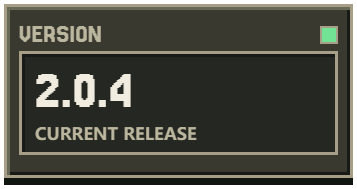
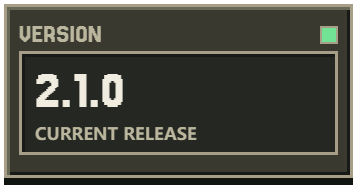
chore(release): 2.1.0
版本位（tauri.conf.json / Cargo.toml / Cargo.lock）统一到 2.1.0；新增 release-2.1.0.md；README 中英版版本卡链接与下载表同步，版本卡由 tools/render-readme.mjs 重渲染（含 hero 与 metadata）。

本次收口：插件下载按来源回退上一可用版本（#68）、插件卡与弹窗滚动锁（#69）、自启失败阶段化与手动启用锁外重试（#70）、Gitee 按需接入与国内镜像实测矩阵（附加 A）；插件仓同期提交预装增量补登记（#71）。

包校验（dist 不进库）：
  Setup  311.68 MB  d12cf11132833ac722605b5f50464b0ad97277d418b41c26d639f952d0e729d8
  Update  30.19 MB  5513ee3a5605a67e256fc23ecb68625ae92a0c0c18fe1f1a18e97b9fadd84406
包内 resources/manifest.json 已核对为 product=FISH Dock / version=2.1.0。

同批已同步工作区 AGENTS.md（§八 Gitee/镜像口径、§七 提交约定）。

Changed region(s): [[0.1849, 0.3704, 0.3697, 0.582]]

diff --git a/app/docs/release-2.1.0.md b/app/docs/release-2.1.0.md
@@ -1,0 +1,74 @@
+# FISH Dock 2.1.0
+
+> 定稿：2026-11-04。宿主 **2.1.0**，兼容插件 2.x（官方目录当前 2.2.0：Clash / Magpie / 飞书）。
+> 本版收口主仓六个 OPEN issue 里的四条 + 一条历史欠账，并补齐 2.0.4 的两处遗留。
+
+## 一、插件下载：三源全灭时按来源回退上一可用版本（#68）
+
+目录里的版本跑在制品前面时（目录写了新版、npm 与 Release 还没有），用户过去只会看到「检查网络或代理后重试」——而网络是好的。
+
+- **版本候选**：优先读官方目录的版本历史条目；目录没有该字段时用编译期内置表 `KNOWN_GOOD`（12 条，摘要取自官方发行，经 GitHub Releases API 的 `assets[].digest` 逐条核验 **12/12 一致**）。比目录更新的内置条目不作回退目标。
+- **下载前探活**：对每个来源每个候选做 `HEAD`，只对 **404/410** 定论「制品不存在」；**403 不定论**，照旧发起完整下载（限流或 CDN 拒 HEAD 证明不了缺制品，一次限流不该把可用来源判死）。
+- **按来源降级**：`fetch_from` 改为「逐来源 × 逐候选（新→旧）」，某条来源最近可用版本成功即返回，并带出实际装上的 `effective_version`；三源都失败时把各候选的 attempts 一并交给面板。
+- **界面保留新版**：目录数据一个字节不改，卡片照常显示最新版；装完后提示「已安装 vX；目录最新 vY 暂不可用」，走**绿色成功态**而不是红色失败。
+- **摘要零放宽**：期望摘要只取候选自带的官方目录摘要，装上的 digest 绝不等于自算摘要；错摘要按该来源失败处理并继续下一候选。
+- **跳转判据修正**：`hop()` 从「只认两个 GitHub 资产域」放宽到「官方发行资产域 **或** 与当前请求同站点域」。这修掉了一个真实缺陷——npmmirror 的 tarball 的 `HEAD` 与 `GET` **都** 302 到 `cdn.npmmirror.com`，此前一律被拒，于是「三源」实际只有两源可用，而国内用户最需要的恰好是死掉的那条。仍要求 HTTPS、拒绝跨域与端口、拒绝后缀伪装（`npmmirror.com.evil.example` 照样拒）。
+- **可诊断性**：结构化下载失败按内容语义记进 `recent.log`（恰好一条，不重复），探活判死补 stderr；失败面板逐源显示 **来源 · 结论 · HTTP 状态码 · 失败阶段 · 可复制 URL**，`title` 保留原始技术串。
+
+## 二、插件卡与浮层（#69）
+
+- 「更多」展开区从约 210px 压到 **105px**（目标 ≤120），日志↔卸载 **9px**（目标 ≤40）；菜单行 32px 整行可点、组内仅一条分隔线、卸载置组末且常态红。
+- 目录名与功能页入口**合并成一行**（12px 次级色 + 省略 + 点击复制）。
+- 已安装卡标题 **17px/600**，状态点 6px、状态↔版本 8px，行内最大留白 10px。
+- **Dock 弹窗锁滚动**：确认弹窗打开时底层列表不再被滚走；进度浮层与失败块在锁定期仍可滚动（`UNLOCKED_SCROLLERS` 具名清单），关闭/取消/Escape/点背景四路都解锁并还原 `scrollTop`。
+- 新增「插件卡与浮层视觉规范」注释块（字号/行高/间距/危险色/滚动锁口径），防 #63 式反复。
+
+## 三、自启失败可定位（#70）
+
+预算与重试调度在 2.0.4 已存在（冷态一次尝试共用 60s、整轮 180s、每插件最多 4 次尝试），本版只补**可观测性**与**对称性**：
+
+- `Failure` 增 `phase`（verify/spawn/hello/activate/service）、`attempt`、`elapsedMs`（增字段，旧 `plugin-failures.log` 仍可解析）。
+- `log_finish` 的 ready/stopped 也落盘（复用单一写入路径，failed 不重复）。
+- **手动启用**首次失败后补一次 3s 退避重试：退避在**锁外**做（不会冻住插件页 3 秒），醒来重取锁并复检 `closed/stopping`/代次。
+
+> ⚠ 这条的**真机重启自启实测仍待执行**（装本版后重启，看 `plugin-failures.log` 与托盘）。代码侧已闭环，真机结论未取。
+
+## 四、国内镜像与 Gitee（历史欠账）
+
+- `url.gitee_repo` 仍是「配了才启用」，默认空；`updates::endpoints()` 在配置后加入 Gitee 候选。
+- `sources::picks` 增 Gitee 附件候选（仅配置时生效），`candidates()` 排序语义与共用 deadline 未改。
+- **行为变化（请留意）**：`allowed()` 从纯前缀比较收窄为「前缀 + 边界字符」。原先配 `…/FISH-Dock` 会连带放行 `…/FISH-DOCK-Plugins`（同名前缀），现在只放行边界匹配的地址。**只收窄，不放宽。**
+- 新增 `app/docs/domestic-mirror-matrix-2026-11-04.md`：六类资源逐项实测。结论摘要——raw 文件是唯一开箱即有免费国内镜像的一类（`stable.json` 在 raw.githubusercontent 与 jsDelivr 三域名字节与 sha256 完全相同）；npm 官方与 npmmirror 的 tarball 四项校验全同；**pet 图库 DNS 污染级不可达且无任何已确认镜像**；Windhawk / LHM 无免费国内镜像。缺口如实标注，不编地址、不要求用户自建服务。
+- **Gitee 现状（不吹）**：主仓 Gitee 有 13 个 tags 但**没有任何 Release 附件**（`releases` API 返回 `[]`，具体附件 URL 全 404）；插件仓 Gitee 的匿名可见性两次探测结果相反（待人工确认）。因此本版**仍以 GitHub Release 为唯一发行源**，Gitee 通道保持默认关闭。
+
+## 五、安装包
+
+| 安装包 | 使用场景 |
+| --- | --- |
+| `FISH-Dock-Setup-2.1.0.exe` | 首次安装、基础资源缺失或修复安装，包含完整离线运行时。 |
+| `FISH-Dock-Update-2.1.0.exe` | 已有版本且基础资源完整时使用，只含相对 **2.0.4** 的变更；缺失或损坏时提示改用完整包。 |
+
+> **精简更新包只对 2.0.4 有效**：它是差分包，跨版本使用会缺文件。更早的版本请用完整安装包。
+
+## 六、已知限制与残留
+
+1. **便携版更新入口仍不可用**：`updates::exe_name()` 还在拼历史文件名 `wakuwaku-v<ver>-windows-x64.exe`，而真实发行名是 `FISH-Dock-{Setup,Update}-<ver>.exe` → 便携版的 `can_install()` 恒为 false（安装版走 `installer_names`，不受影响）。列为独立条目。
+2. **npm 两源仍无新版**：`catalog/stable.json` 已写 2.2.0，但 npm 官方源与 npmmirror 的 latest 仍是 2.1.5/2.1.5/2.1.6、2.2.0 tarball 404，只有 GitHub Release 有。插件更新目前依赖 GitHub 一条腿；回退逻辑正好覆盖这种情况。
+3. **真机未验**：卡面尺寸（`getBoundingClientRect`）、触控惯性下的滚动锁、深浅主题的 `.note.ok` 对比度、以及 #70 的重启自启实测。
+4. **`.bad` 无独立颜色规则**：整套 CSS 里只有组合选择器带红，所以历史上那些“红色失败”其实不红。属既有观感问题，独立条目处理。
+5. **探活无整轮总 deadline**：最坏 3 源 × 6 候选 = 18 次 `HEAD`；单次 fetch 内共用 deadline，整轮候选没有。
+6. **`KNOWN_GOOD` 靠人工纪律维护**：表过期后回退能力会静默退化到“只有目录当前版”。
+7. `hop()` 的同站点域是**逐跳**评估，比旧版略宽（仍限 GitHub 自有域 + 目录 sha256/size/manifest 三重校验）。
+
+## 七、验证
+
+- 整 crate `cargo check --offline --bin FISH-Dock` → exit 0。
+- 全量 `cargo test` **并行连跑 3 次**：每次 `876 passed; 2 failed; 23 ignored`，两条失败恒为 `lhm_setup::tests` 的沙箱 DACL 与 Task Scheduler 环境问题。
+- 前端：`node --check` 三文件 exit 0；前端夹具 466 passed（基线 462）。
+- `node app/scripts/check-hardcoded.mjs` → **exit 0**（合计 128/128/0、`HTTP_URL 70/70/0`）；对比度无新增违规。
+- 插件仓 `node --test preinstall.test.mjs` → 26/26。
+- 改动面：主仓 15 文件 +2083/−175；插件仓 3 文件；`catalog/stable.json` 未改动。
+
+## 八、插件侧配套
+
+插件仓同期提交了 **#71 预装登记改按基线差集增量补登记**（`plugins/magpie/preinstall.mjs`）：marker 升级 schema 2 带 `baseline`，老用户升级后能拿到 2.1.4 才进基线的 Meoo；状态文件的 `registered/added` 改为按实际清单计算。**该修复要等插件仓发新版才到用户手里**，本版宿主不包含它。

diff --git a/README.en.md b/README.en.md
@@ -6,14 +6,14 @@
 </p>
 <h1><picture><source media="(prefers-color-scheme: dark)" srcset="assets/readme/hero-en-dark.png"><img src="assets/readme/hero-en-light.png" width="1440" alt="FISH Dock: a dock for AI sessions and a home for model APIs. Original icon and user-provided hanging mascot."></picture></h1>
 <p>
-<a href="app/docs/release-2.0.4.md"><picture><source media="(prefers-color-scheme: dark)" srcset="assets/readme/stat-version-en-dark.png"><img src="assets/readme/stat-version-en-light.png" width="23%" alt="Current version v2.0.4"></picture></a>
+<a href="app/docs/release-2.1.0.md"><picture><source media="(prefers-color-scheme: dark)" srcset="assets/readme/stat-version-en-dark.png"><img src="assets/readme/stat-version-en-light.png" width="23%" alt="Current version v2.1.0"></picture></a>
 <a href="#install"><picture><source media="(prefers-color-scheme: dark)" srcset="assets/readme/stat-desktop-en-dark.png"><img src="assets/readme/stat-desktop-en-light.png" width="23%" alt="Two docking modes: taskbar and island"></picture></a>
 <a href="#workspace"><picture><source media="(prefers-color-scheme: dark)" srcset="assets/readme/stat-mail-en-dark.png"><img src="assets/readme/stat-mail-en-light.png" width="23%" alt="Mail management: combined inbox and mark all as read"></picture></a>
 <a href="https://github.com/Fish-under-sea/FISH-DOCK-Plugins"><picture><source media="(prefers-color-scheme: dark)" srcset="assets/readme/stat-channels-en-dark-v2.png"><img src="assets/readme/stat-channels-en-light-v2.png" width="23%" alt="Three independent official plugins"></picture></a>
 </p>
 <p>
-<a href="https://github.com/Fish-under-sea/FISH-Dock/releases/tag/v2.0.4"><picture><source media="(prefers-color-scheme: dark)" srcset="assets/readme/key-download-en-dark.png"><img src="assets/readme/key-download-en-light.png" width="168" alt="Downloads and Releases; installer assets require a published release"></picture></a>
-<a href="app/docs/release-2.0.4.md"><picture><source media="(prefers-color-scheme: dark)" srcset="assets/readme/key-release-en-dark.png"><img src="assets/readme/key-release-en-light.png" width="112" alt="Changelog"></picture></a>
+<a href="https://github.com/Fish-under-sea/FISH-Dock/releases/tag/v2.1.0"><picture><source media="(prefers-color-scheme: dark)" srcset="assets/readme/key-download-en-dark.png"><img src="assets/readme/key-download-en-light.png" width="168" alt="Downloads and Releases; installer assets require a published release"></picture></a>
+<a href="app/docs/release-2.1.0.md"><picture><source media="(prefers-color-scheme: dark)" srcset="assets/readme/key-release-en-dark.png"><img src="assets/readme/key-release-en-light.png" width="112" alt="Changelog"></picture></a>
 <a href="https://github.com/Fish-under-sea/FISH-Dock/issues"><picture><source media="(prefers-color-scheme: dark)" srcset="assets/readme/key-issues-en-dark.png"><img src="assets/readme/key-issues-en-light.png" width="120" alt="Report an issue"></picture></a>
 </p>
 </div>
